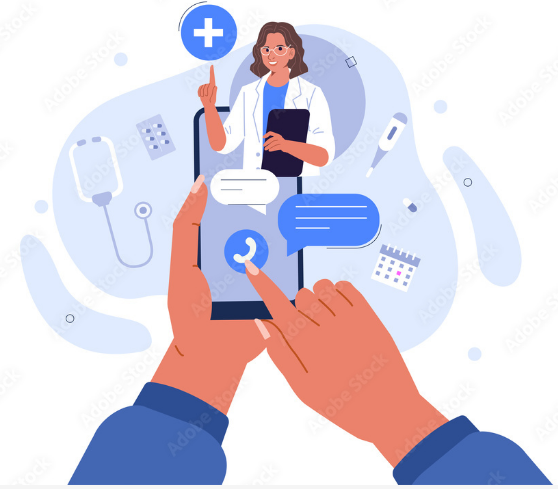
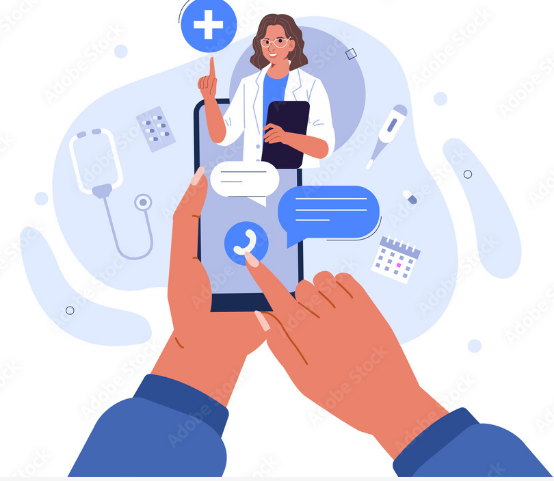
download app section

diff --git a/src/components/common/CustomSection.vue b/src/components/common/CustomSection.vue
@@ -3,7 +3,8 @@
     <div  class="grid max-w-screen-xl  py-8 mx-auto lg:gap-8  xl:gap-0 lg:py-10 lg:grid-cols-12">
       <div class="lg:col-span-7">
         <div class="mr-auto place-self-center text-left ">
-          <h1 class="max-w-2xl mb-4 text-5xl tracking-tight leading-none md:text-5xl xl:text-6xl  uppercase text-black">{{ heading }}</h1>
+          <h1 class="w-2/3 mb-4 text-5xl font-semibold tracking-tight leading-none md:text-5xl xl:text-4xl  
+           text-black">{{ heading }}</h1>
           <p class="max-w-2xl mb-6 font-light text-gray-400 lg:mb-8 md:text-lg lg:text-xl">{{ description }}</p>
           <button class="bg-blue-400 hover:bg-blue-400 inline-flex items-center justify-center px-5 py-3 mr-3  font-medium text-center text-white rounded-3xl ">
             {{ buttonText }}
@@ -19,8 +20,13 @@
 </template>
 
 <script>
+import Button from './Button.vue';
 export default {
   name: "CustomSection",
+  components:{
+    Button,
+    Button
+},
   props: {
     heading: String,
     description: String,
@@ -28,6 +34,7 @@ export default {
     imageSrc: String,
     imageAlt: String,
   },
+  
 
 };
 </script>

diff --git a/src/components/Download.vue b/src/components/Download.vue
@@ -12,7 +12,7 @@
   
   <script>
   import CustomSection from "./common/CustomSection.vue";
-  import image from '../assets/img/10.jpg'
+  import image from '../assets/img/9.jpg'
   export default {
     name: "Download",
     components: {
@@ -20,9 +20,9 @@
     },
     data() {
       return {
-        headingProp: "virtual healthcare for you",
+        headingProp: "Download our mobile apps",
         descriptionProp: "VRHealth provides progressive, and affordable healthcare , accessible on mobile and online for everyone.",
-        buttonTextProp: "Consult Now",
+        buttonTextProp: "Download",
         imageSrcProp: image,
         imageAltProp: "mockup",
       };

diff --git a/src/components/common/CustomSection2.vue b/src/components/common/CustomSection2.vue
@@ -6,7 +6,7 @@
         </div>
         <div class="lg:col-span-7">
           <div class="mr-auto place-self-center text-left ">
-            <h1 class="w-2/3 mb-4 text-3xl tracking-tight leading-none md:text-3xl xl:text-5xl font-bold   text-black">{{ heading }}</h1>
+            <h1 class="w-2/3 mb-4 text-3xl tracking-tight leading-none md:text-3xl xl:text-4xl font-semibold   text-black">{{ heading }}</h1>
             <HeaderLiner/>
             <p class="max-w-2xl mt-2 mb-6 font-light text-gray-400 lg:mb-8 md:text-lg lg:text-xl">{{ description }}</p>
             

diff --git a/src/components/HeroSection.vue b/src/components/HeroSection.vue
@@ -20,7 +20,7 @@
     },
     data() {
       return {
-        headingProp: "virtual healthcare for you",
+        headingProp: "VIRTUAL HEALTHCARE FOR YOU",
         descriptionProp: "VRHealth provides progressive, and affordable healthcare , accessible on mobile and online for everyone.",
         buttonTextProp: "Consult Now",
         imageSrcProp: image,
